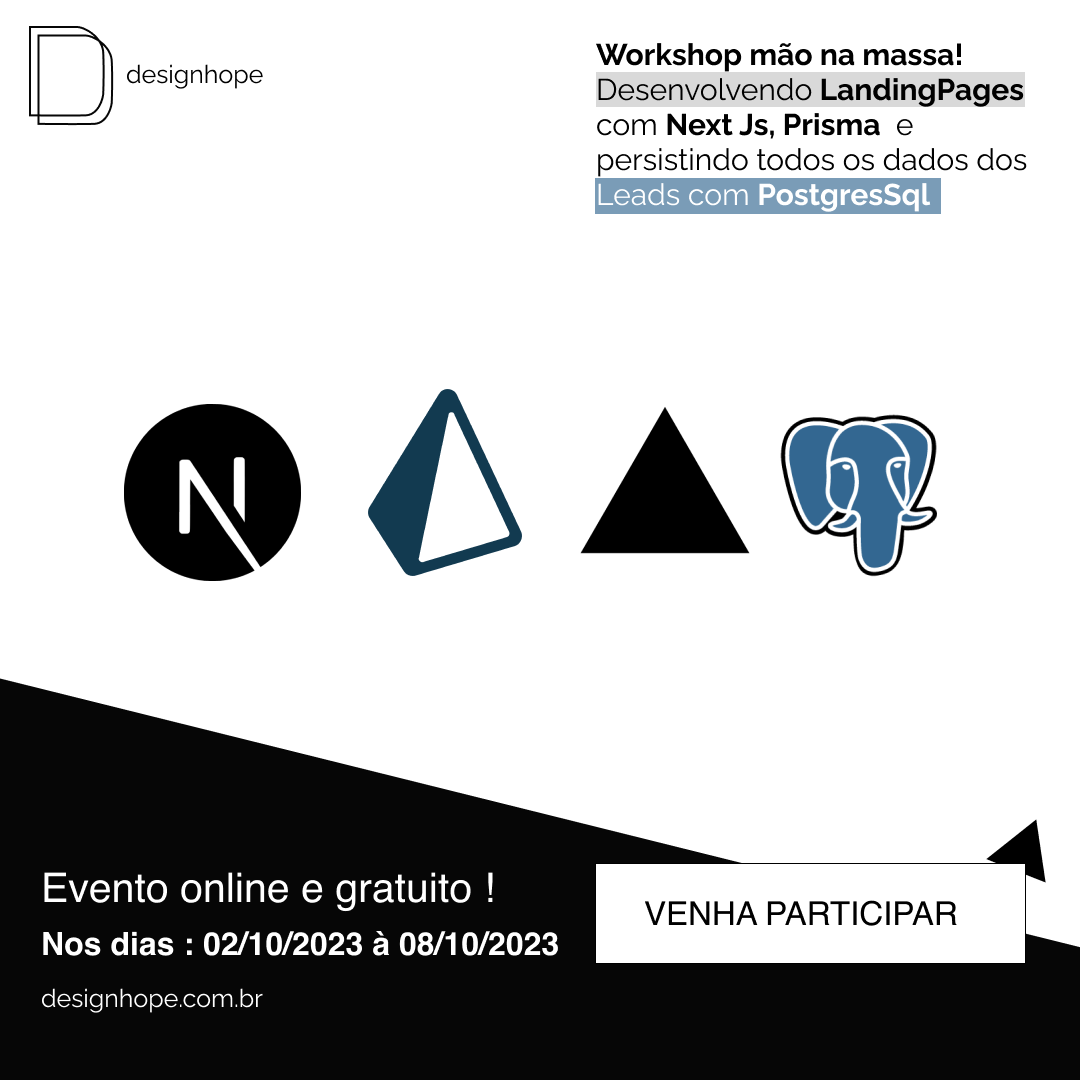
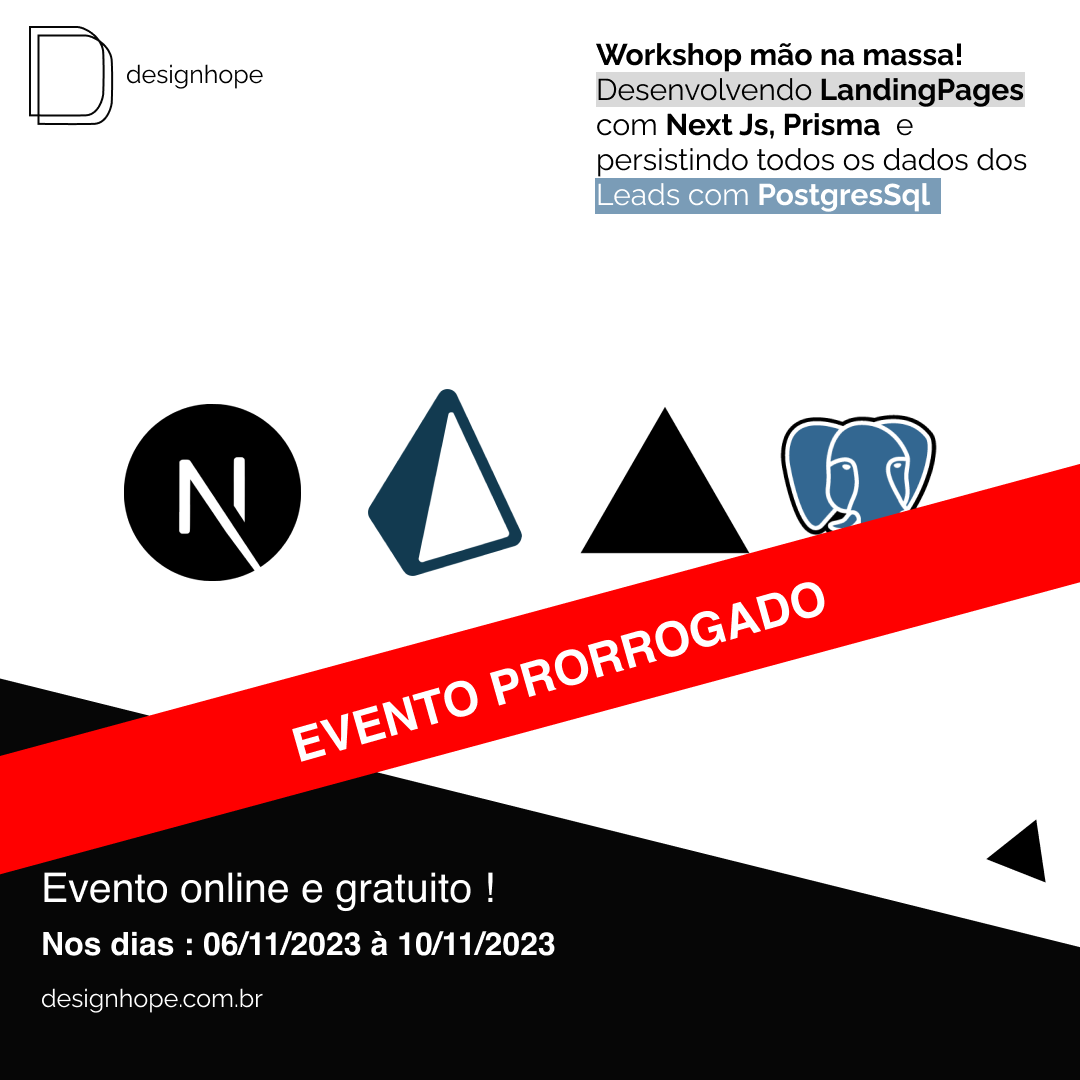
change data

diff --git a/src/app/components/Hero/index.tsx b/src/app/components/Hero/index.tsx
@@ -49,7 +49,7 @@ export default function Hero() {
             todos os dados dos Leads com PostgresSql
           </p>
           <p className="my-8 text-gray-300 text-3xl font-bold">
-            Nos dias : 02/10/2023 à 08/10/2023
+            Nos dias : 06/11/2023 à 10/11/2023
           </p>
           <BuyCoffee />
         </div>

diff --git a/src/app/layout.tsx b/src/app/layout.tsx
@@ -1,5 +1,4 @@
 import "./globals.css";
-import Head from "next/head";
 import type { Metadata } from "next";
 import { Raleway } from "next/font/google";
 
